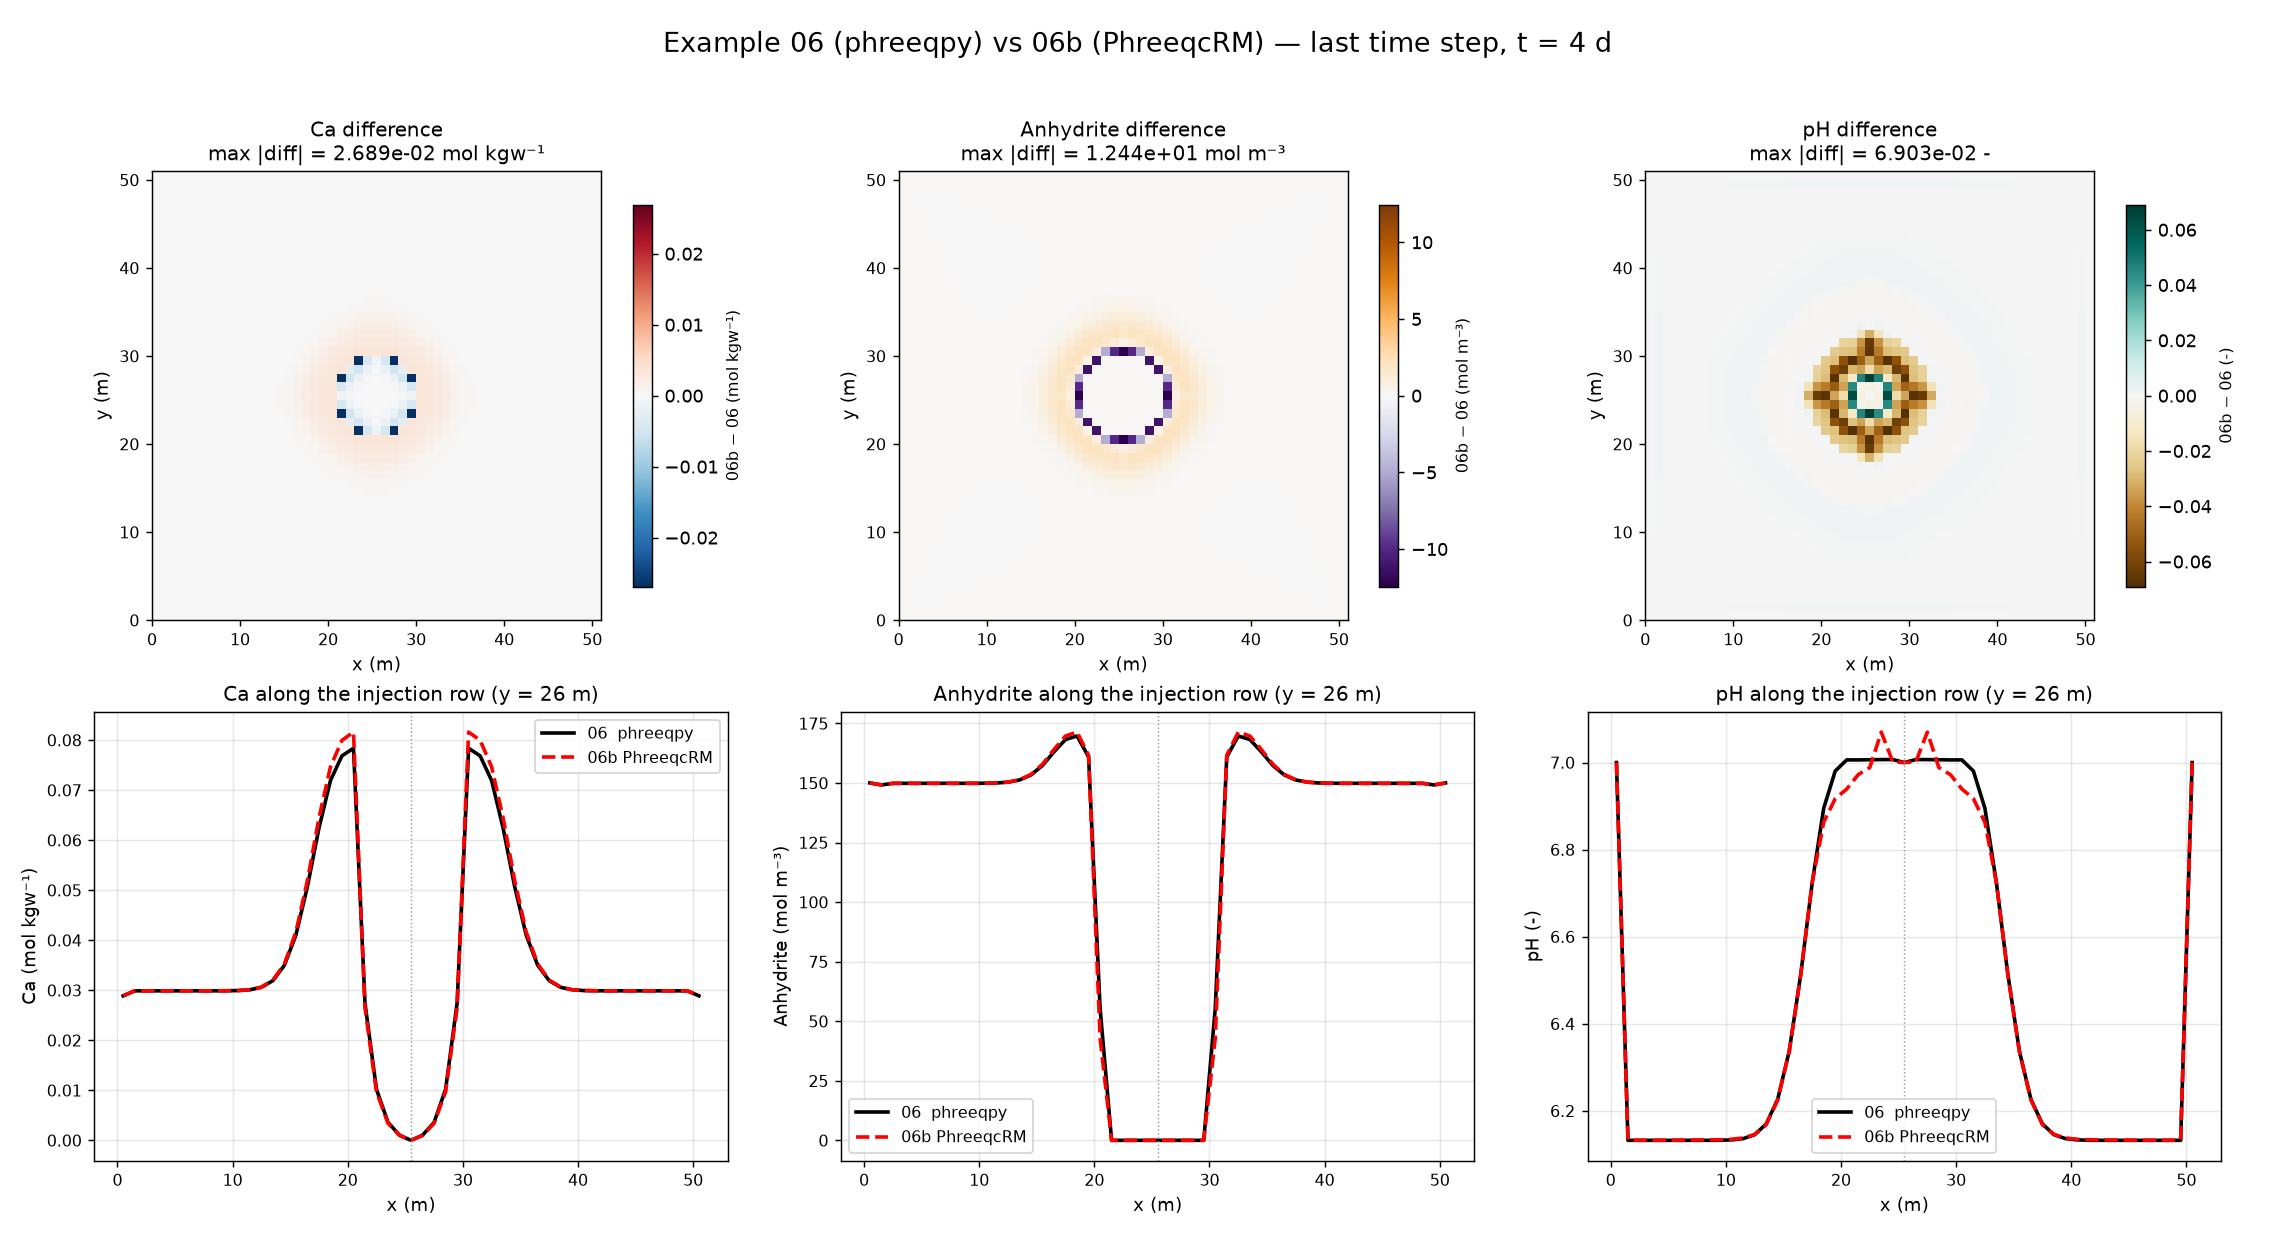
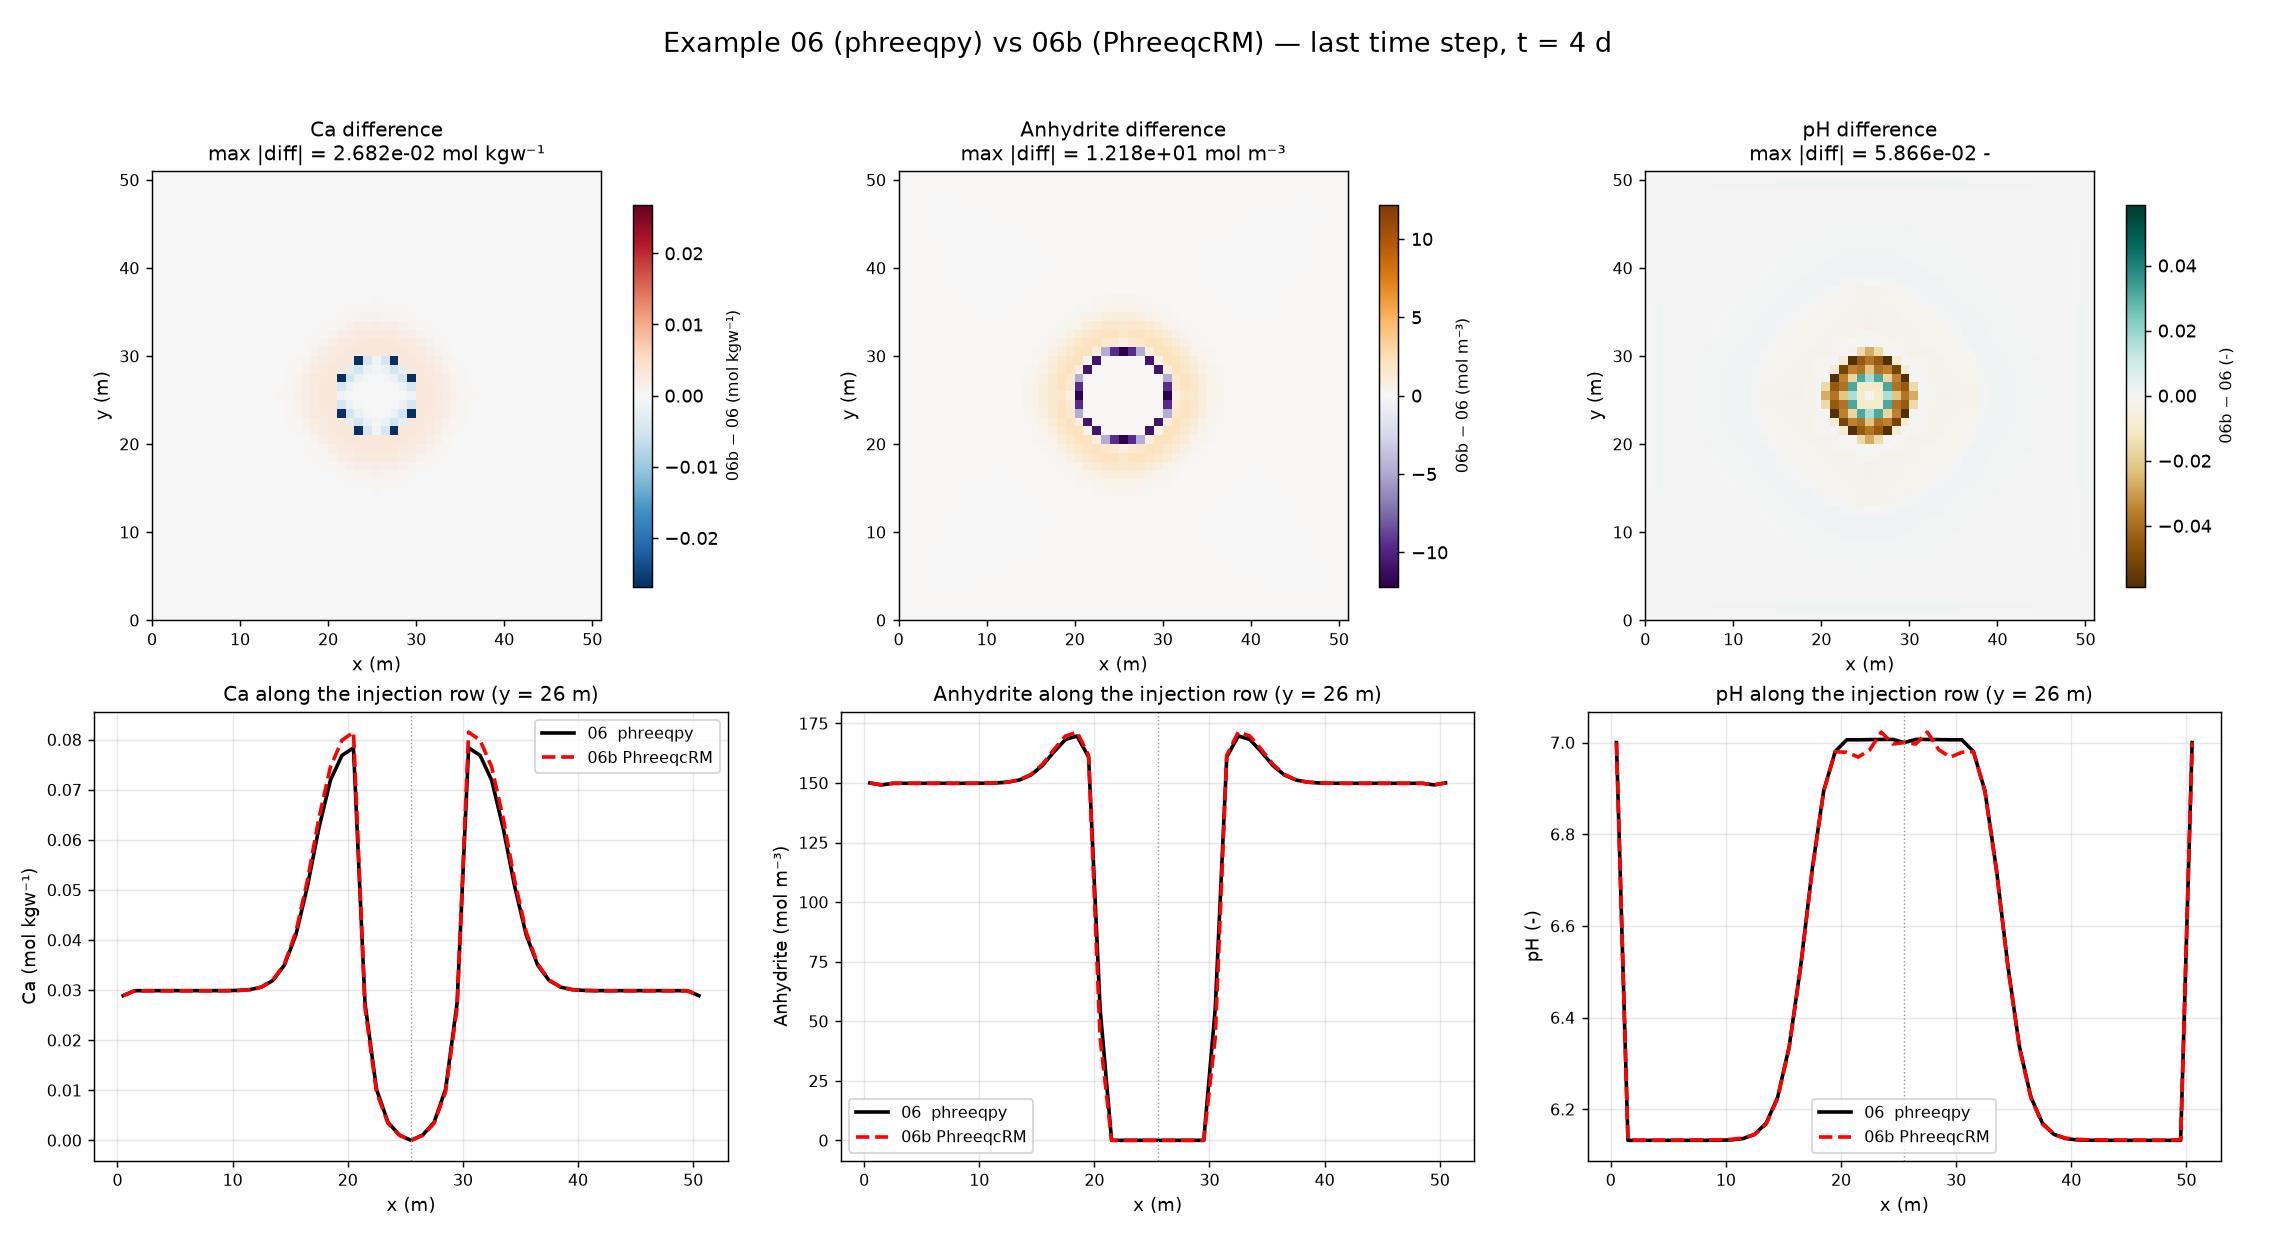
example 6b: fix the pH spikes by pinning the redox state
The spikes came from the redox boundary, not from the phase handling: with the
oxygen total at O_base + 4 S(6) the module's dissolved O(0) is exactly zero, so
it reduced part of the S(6) to sulphide in the cells where the anhydrite had
been leached completely. A dump of the module's speciation there showed SO4(2-)
holding only 44 % of the total sulfur, the rest as H2S/HS-, i.e. 0.0036 eq/kgw
of cation excess, which showed up as pH 7.07 instead of 7.00.

Fix: the pore water of this model is oxic, so the redox state is defined
explicitly by keeping O2_MIN = 1e-4 mol/L (3.2 mg/L) of dissolved oxygen in the
oxygen total. No sulfide is formed any more, SO4(2-) equals the total sulfur,
and the pH field is smooth: max 7.038 (was 7.074), no cell above 7.05, residual
wiggle +-0.02 at the exhaustion cells. Ca and anhydrite are unchanged
(0.0815 / 178.7 mol/m3), runtime 136 s.

README: cause and fix documented, validation numbers and timings updated.

diff --git a/course/06b-groundwater_heat_tracer_phreeqcrm/config.py b/course/06b-groundwater_heat_tracer_phreeqcrm/config.py
@@ -30,13 +30,17 @@
 
     pH AND REDOX
     PhreeqcRM transports the complete master set (H, O, Charge, Ca, Cl, Na, S),
-    TSE only the solutes in SPTRANS. Sulfur is therefore transported as S(6)
-    (sulphate, species 2) and the module's total oxygen is kept consistent with
-    it (O = O_base + 4 S(6)), so PHREEQC does not re-speciate sulfur as sulphide
-    - otherwise the redox state drifts and pH goes basic. pH is an output here
-    (C[4], read from the selected output); example 6 does the same in C[3].
-    The only artefact left are 12 cells at the anhydrite exhaustion front,
-    where pH reads 7.07 instead of 7.00 - see README.md.
+    TSE only the solutes in SPTRANS. Two measures keep the redox state defined:
+      * sulfur is transported as S(6) (sulphate, species 2), and the module's
+        total oxygen is kept consistent with it (O = O_base + 4 S(6)),
+      * the oxygen total carries a small dissolved O2 concentration
+        (O2_MIN, 1e-4 mol/L = 3.2 mg/L, i.e. oxic pore water). Without it
+        O(0) sits exactly on the redox boundary and the module reduces part of
+        the S(6) to sulphide; the missing anion charge then shows up as a
+        slightly basic pH (7.07 instead of 7.00) in the cells where the
+        anhydrite has been leached completely.
+    pH is an output here (C[4], read from the selected output); example 6 does
+    the same in C[3].
 '''
 
 import os
@@ -265,6 +269,8 @@ def fluid_properties(C, T, P, nue, rho_f, c_f, cp_f, l_f, cp_r, l_r, phi,
 # mineral amount and pH from the selected output.
 
 NXYZ = nx * ny * nz        # number of grid cells
+O2_MIN = 1.0e-4            # dissolved O2 in the pore water (mol/L = 3.2 mg/L),
+                           # defines the redox state (see pH AND REDOX above)
 RV_L = 1.0                 # representative volume per cell (L), keeps the
                            # water volume per cell close to 1 L as recommended
                            # by the PhreeqcRM documentation
@@ -401,7 +407,7 @@ def chemical_reactions_all(C, P, T, rho_f, phi, Kx, Ky, Kz, dt_chem):
 
     conc[ICA * NXYZ:(ICA + 1) * NXYZ] = ca_rm
     conc[IS * NXYZ:(IS + 1) * NXYZ] = s6_rm
-    conc[IOX * NXYZ:(IOX + 1) * NXYZ] = _o_base + 4.0 * s6_rm
+    conc[IOX * NXYZ:(IOX + 1) * NXYZ] = _o_base + 4.0 * s6_rm + O2_MIN
 
     rm.SetTimeStep(dt_chem)
     rm.SetTemperature(T.ravel())

diff --git a/course/06b-groundwater_heat_tracer_phreeqcrm/README.md b/course/06b-groundwater_heat_tracer_phreeqcrm/README.md
@@ -65,9 +65,9 @@ comparison below is quoted to four digits rather than bit-exactly.
 
 | | example 6 | example 6b | max abs diff | mean diff |
 |---|---|---|---|---|
-| Ca (mol kgw⁻¹) | 0.000 – 0.0784 | 0.000 – 0.0816 | 2.7e-2 | 6.2e-5 |
-| anhydrite (mol m⁻³) | 0 – 176.7 | 0 – 178.7 | 12.4 | 0.02 |
-| pH (–) | 6.13 – 7.01 | 6.13 – 7.07 | 0.069 | −1.4e-3 |
+| Ca (mol kgw⁻¹) | 0.000 – 0.0784 | 0.000 – 0.0815 | 2.7e-2 | 2.7e-5 |
+| anhydrite (mol m⁻³) | 0 – 176.7 | 0 – 178.7 | 12.2 | 0.02 |
+| pH (–) | 6.13 – 7.01 | 6.13 – 7.04 | 0.059 | −6.5e-4 |
 | temperature | — | — | 0.00 K | — |
 
 pH agrees to 0.07, Ca and anhydrite to 2.7e-2 mol kgw⁻¹ and 12.4 mol m⁻³. The
@@ -77,34 +77,32 @@ from the `K_C` conversion residual plus the Dirichlet cells, where example 6
 skips chemistry and 6b does not. `compare_06_vs_06b.py` in `course/` regenerates
 the difference plot (`06b-groundwater_heat_tracer_phreeqcrm/compare_06_vs_06b.png`).
 
-### The two pH spikes
+### The pH spikes in the leached core, and the fix
 
-The pH profile of 06b has two narrow spikes (7.07 instead of ~7.00) at the
-flanks of the leached core, where the anhydrite has been completely dissolved:
-all 12 cells above pH 7.05 have `anhydrite = 0` and `Ca ≈ 0.0034–0.0053
-mol kgw⁻¹`, i.e. almost pure water.
+An earlier version of this example had two narrow pH spikes (7.07 instead of
+~7.00) at the flanks of the leached core, in the cells where the anhydrite had
+been dissolved completely (`anhydrite = 0`, `Ca ≈ 0.0033 mol kgw⁻¹`).
 
-Feeding undersaturated water into a cell with finite mineral shows pH creeping
-up as the phase is consumed (7.011 → 7.022 → 7.026 at anhydrite 0.139 → 0.092 →
-0.018 mol), so the spike is the **exhaustion endpoint of the phase**: the module
-keeps the phase in the assemblage at exactly 0 moles while the phase boundary
-(SI = 0) is still enforced, and in the resulting nearly pure water a residual of
-~1e-5 in the strong-ion balance moves pH by 0.07 units.
+Cause: with the oxygen total set to `O_base + 4 S(6)`, the module's dissolved
+O(0) sits exactly on the redox boundary. There the module reduces part of the
+S(6) to sulphide (H2S(aq)/HS⁻), the missing anion charge is booked in the
+`Charge` component, and in the resulting nearly pure water the cation excess
+shows up as a slightly basic pH. A dump of the module's speciation at such a
+cell showed it clearly: `SO4²⁻` accounted for only 44 % of the total sulfur
+while `HS⁻`/H2S held the rest, leaving 0.0036 eq kgw⁻¹ of cation excess.
 
-The same solution state fed to a *fresh* PHREEQC instance (`Ca = S(6) = 0.0034
-mol kgw⁻¹`, T = 20 °C, no phase) gives pH 7.0067, i.e. the artefact is not a
-property of the composition but of the exhausted phase in the module's per-cell
-state. Example 06 cannot show it: it runs all 2601 cells through **one** shared
-IPhreeqc instance, so the complete solution (pH/charge, Na, Cl, water) has to be
-re-specified for every cell - there is no per-cell state to carry over. A test
-that does carry the state over in a single instance gives pH exactly 7.0000
-throughout, i.e. a different behaviour again, not the spikes.
+Fix: the pore water is oxic in this model, so the redox state is now defined
+explicitly by keeping a dissolved O2 concentration of `O2_MIN = 1e-4 mol L⁻¹`
+(= 3.2 mg L⁻¹, a realistic value for oxic groundwater) in the oxygen total.
+With that, no sulfide is formed, `SO4²⁻` equals the total sulfur, and the pH
+field is smooth: max 7.038 (was 7.074), no cell above 7.05, residual wiggle
+±0.02 at the exhaustion cells, and Ca/anhydrite unchanged (0.0815 / 178.7).
 
 ## Performance (measured on an i7-1260P, both runs back to back, same load)
 
 | | example 6 | example 6b |
 |---|---|---|
-| wall time | 288.8 s | 139.9 – 144.9 s (**≈2.0× faster**) |
+| wall time | 288.8 s | 136 – 145 s (**≈2.0× faster**) |
 | per time step | 0.339 s | 0.164 – 0.170 s |
 | pressure / species / heat iterations | 13 939 / 5 465 / 1 675 | 6 373 / 11 633 / 2 302 |
 
